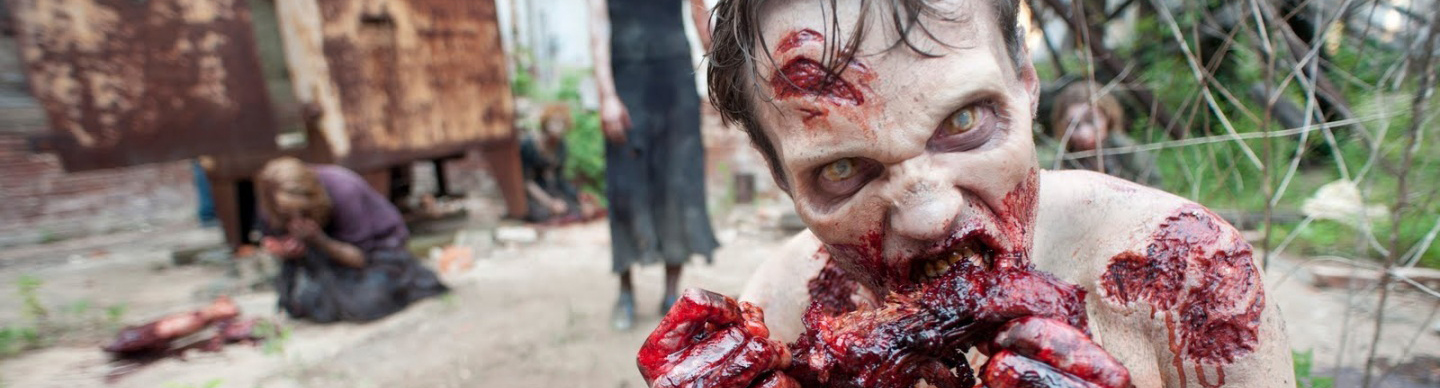
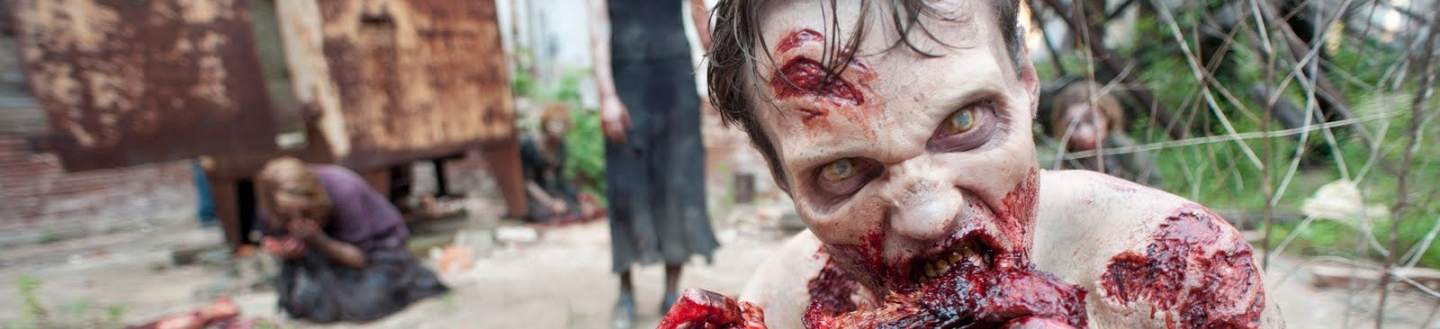
dunno

diff --git a/Diner/public/index.html b/Diner/public/index.html
@@ -13,22 +13,22 @@
   <script src = "scripts/views.js"></script>
 </head>
 <body>
-  <div class="container">
-   <img src = "images/logo.svg" / class="logo">
- </div>
  <header>
+   <div class="container">
+ </div>
   <img src = "images/zombies-eatingsmall.jpg" class="headerimage">
+  <ul class= "categories">
+  <button class = "cat" id="snack"> SNACKS</button>
+  <button class = "cat" id="entree"> ENTREES </button>
+  <button class = "cat" id="bev"> BEVERAGES </button>
+</ul>
 </header>
 <div class="detail" id="detpic"> <!-- <img class="detailpic"> --></div>
 
 
 <!-- menu bar  -->
-<ul class= "categories">
-  <button class = "cat" id="snack"> SNACKS</button>
-  <button class = "cat" id="entree"> ENTREES </button>
-  <button class = "cat" id="bev"> BEVERAGES </button>
-</ul>
 <aside id="checkers"> 
+   <img src = "images/logo.svg" / class="logo">
 </aside>
 <aside>
 </aside>
@@ -37,6 +37,7 @@
  <!-- template to show menu items --> 
  <ul id="dishesList">
  </ul>
+<div class="splat"></div>
  <!--template-->
  <script type = "text/template" id = "dishTemplate">
  <span class= "itemList <%=dish.category_id%>">   <div class="picbox" style="background:url(images/lense.gif),url(<%= dish.image_url %>);background-size: cover;">
@@ -59,6 +60,7 @@
       <img class="picbox" src= <%= dish.image_url %>>
       </span>
       </script>
+          </section>
       <!--add item button-->
       <button id = "addItemB";></button>
       <!--add item fields-->
@@ -78,7 +80,7 @@
         </select>
         <button id = "dishAdd">add it</button>
       </div>
-    </section>
+
 
 
 

diff --git a/Diner/public/css/style.css b/Diner/public/css/style.css
@@ -22,8 +22,9 @@
 }
 
 .headerimage{
-  position:absolute;
-  top:-45%;
+  position:fixed;
+  top:0%;
+  height:39%;
   width: 100%;
 }
 #checkers{
@@ -38,12 +39,11 @@
 }
 
 .logo{
- float:top;
- position: fixed;
- width:500px;
- left: 0px;
- top: 25px;
- z-index: 19;
+ position: absolute;
+ width:2000%;
+ left: -800%;
+ top: 8%;
+ z-index: 30;
 }
 
 /*.detail{
@@ -75,14 +75,15 @@
   .container{
     position: relative;
     bottom:0%;
+    z-index: 20;
   }
 
   .categories{
     text-align: center;
-    position:fixed;
-    top:196px;
-    left:18%;
-    width: 85%;
+    position:absolute;
+    bottom:-3%;
+    left:5%;
+    width: 100%;
     height: 30px;
     background-color: rgb(255,30,45);
     z-index: 18;
@@ -119,7 +120,7 @@
     position: fixed;
     left:15%;
     width: 85%;
-    height: 204px;
+    height: 44%;
     z-index: 15;
   }
 
@@ -248,6 +249,7 @@
     position:fixed;
     bottom:-40%;
     right: 0%;
+    background-image:url(../images/splatter.svg);
     width: 85%;
     z-index: 0;
     

diff --git a/Diner/public/scripts/views.js b/Diner/public/scripts/views.js
@@ -93,8 +93,8 @@ var CreateDishView = Backbone.View.extend({
 		imageField.val("");
 		catField.val("");
 		showAll();
+		$("#addItemField").fadeOut;
 	}
-
 });
 //categories
 
@@ -130,8 +130,7 @@ $("#bev").click(function(){
 
 });	
 $( "#addItemB" ).dblclick(function(){
-	console.log("clicked"),
-	$("#addItemField").toggleClass("hidden");
+	$("#addItemField").toggleClass("hidden")
 });
 showAll = function(){
 	document.getElementById("snack").className = "cat";
